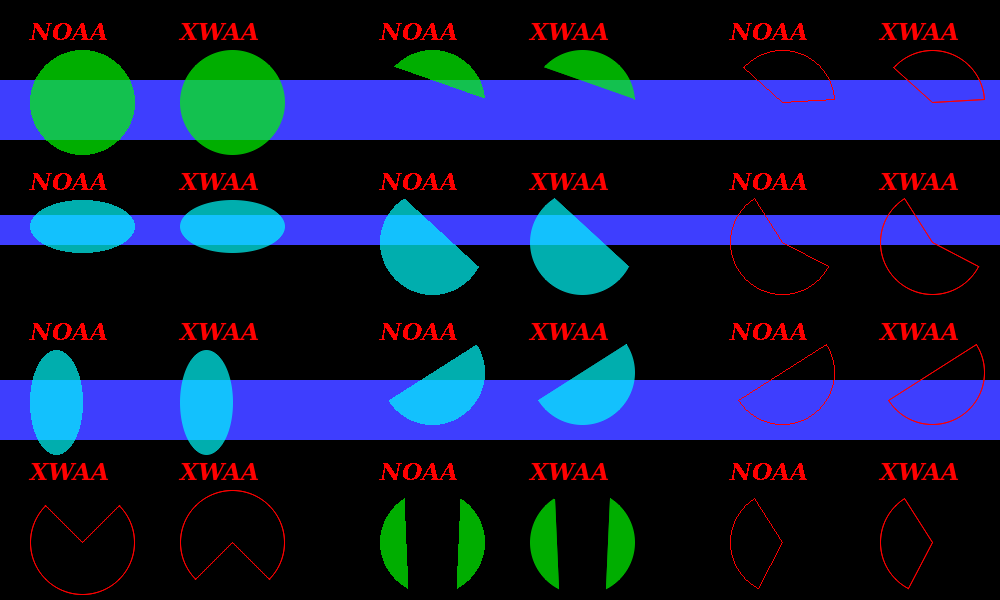
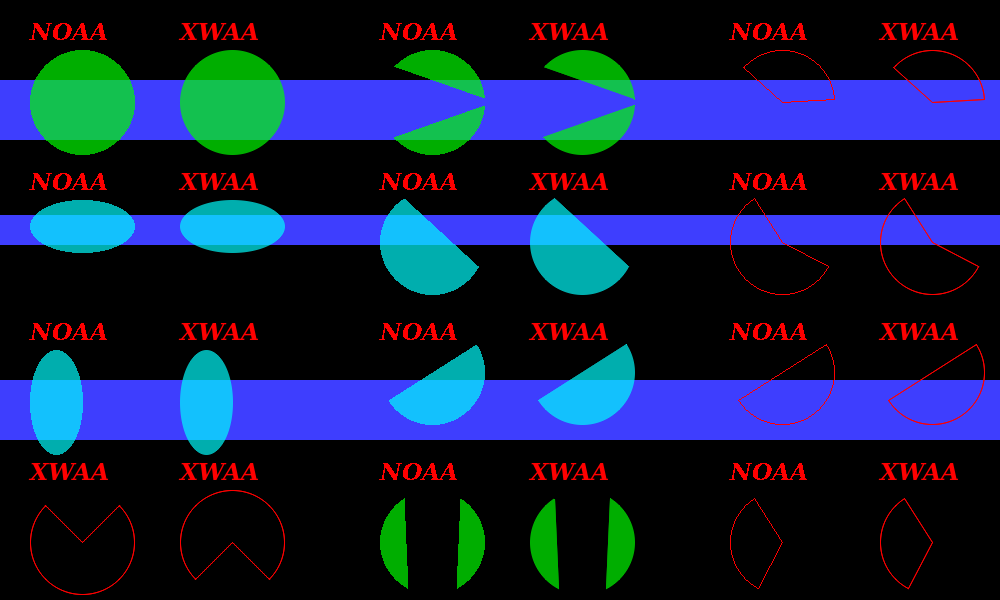
Fixing fillArc - chord mode

Changed region(s): [[0.527, 0.18, 0.651, 0.27], [0.372, 0.18, 0.496, 0.27]]

diff --git a/src/Pt-Gfx/tests/ImagePainterTest2_Draw_Filled.cpp b/src/Pt-Gfx/tests/ImagePainterTest2_Draw_Filled.cpp
@@ -198,10 +198,12 @@ static void testDrawFillEllipse(const char* title, Image& image, Painter& painte
     if(ip2) {
         ip2->setAntiAliasingMode(AntiAliasingMode::None);
         ip2->fillArc( PointF (30 + 350, 50), SizeF(105, 105), 0 + 3, 135 + 3, ArcMode::Chord );
+        ip2->fillArc( PointF (30 + 350, 50), SizeF(105, 105), -135 - 3, 0 - 3, ArcMode::Chord );
         ip2->drawText( PointF(30 + 350, 40), "NOAA" );
 
         ip2->setAntiAliasingMode(AntiAliasingMode::Fastest);
         ip2->fillArc( PointF (30 + 500, 50), SizeF(105, 105), 0 + 3, 135 + 3, ArcMode::Chord );
+        ip2->fillArc( PointF (30 + 500, 50), SizeF(105, 105), -135 - 3, 0 - 3, ArcMode::Chord );
         ip2->drawText( PointF(30 + 500, 40), "XWAA" );
 
         ip2->setAntiAliasingMode(AntiAliasingMode::None);
